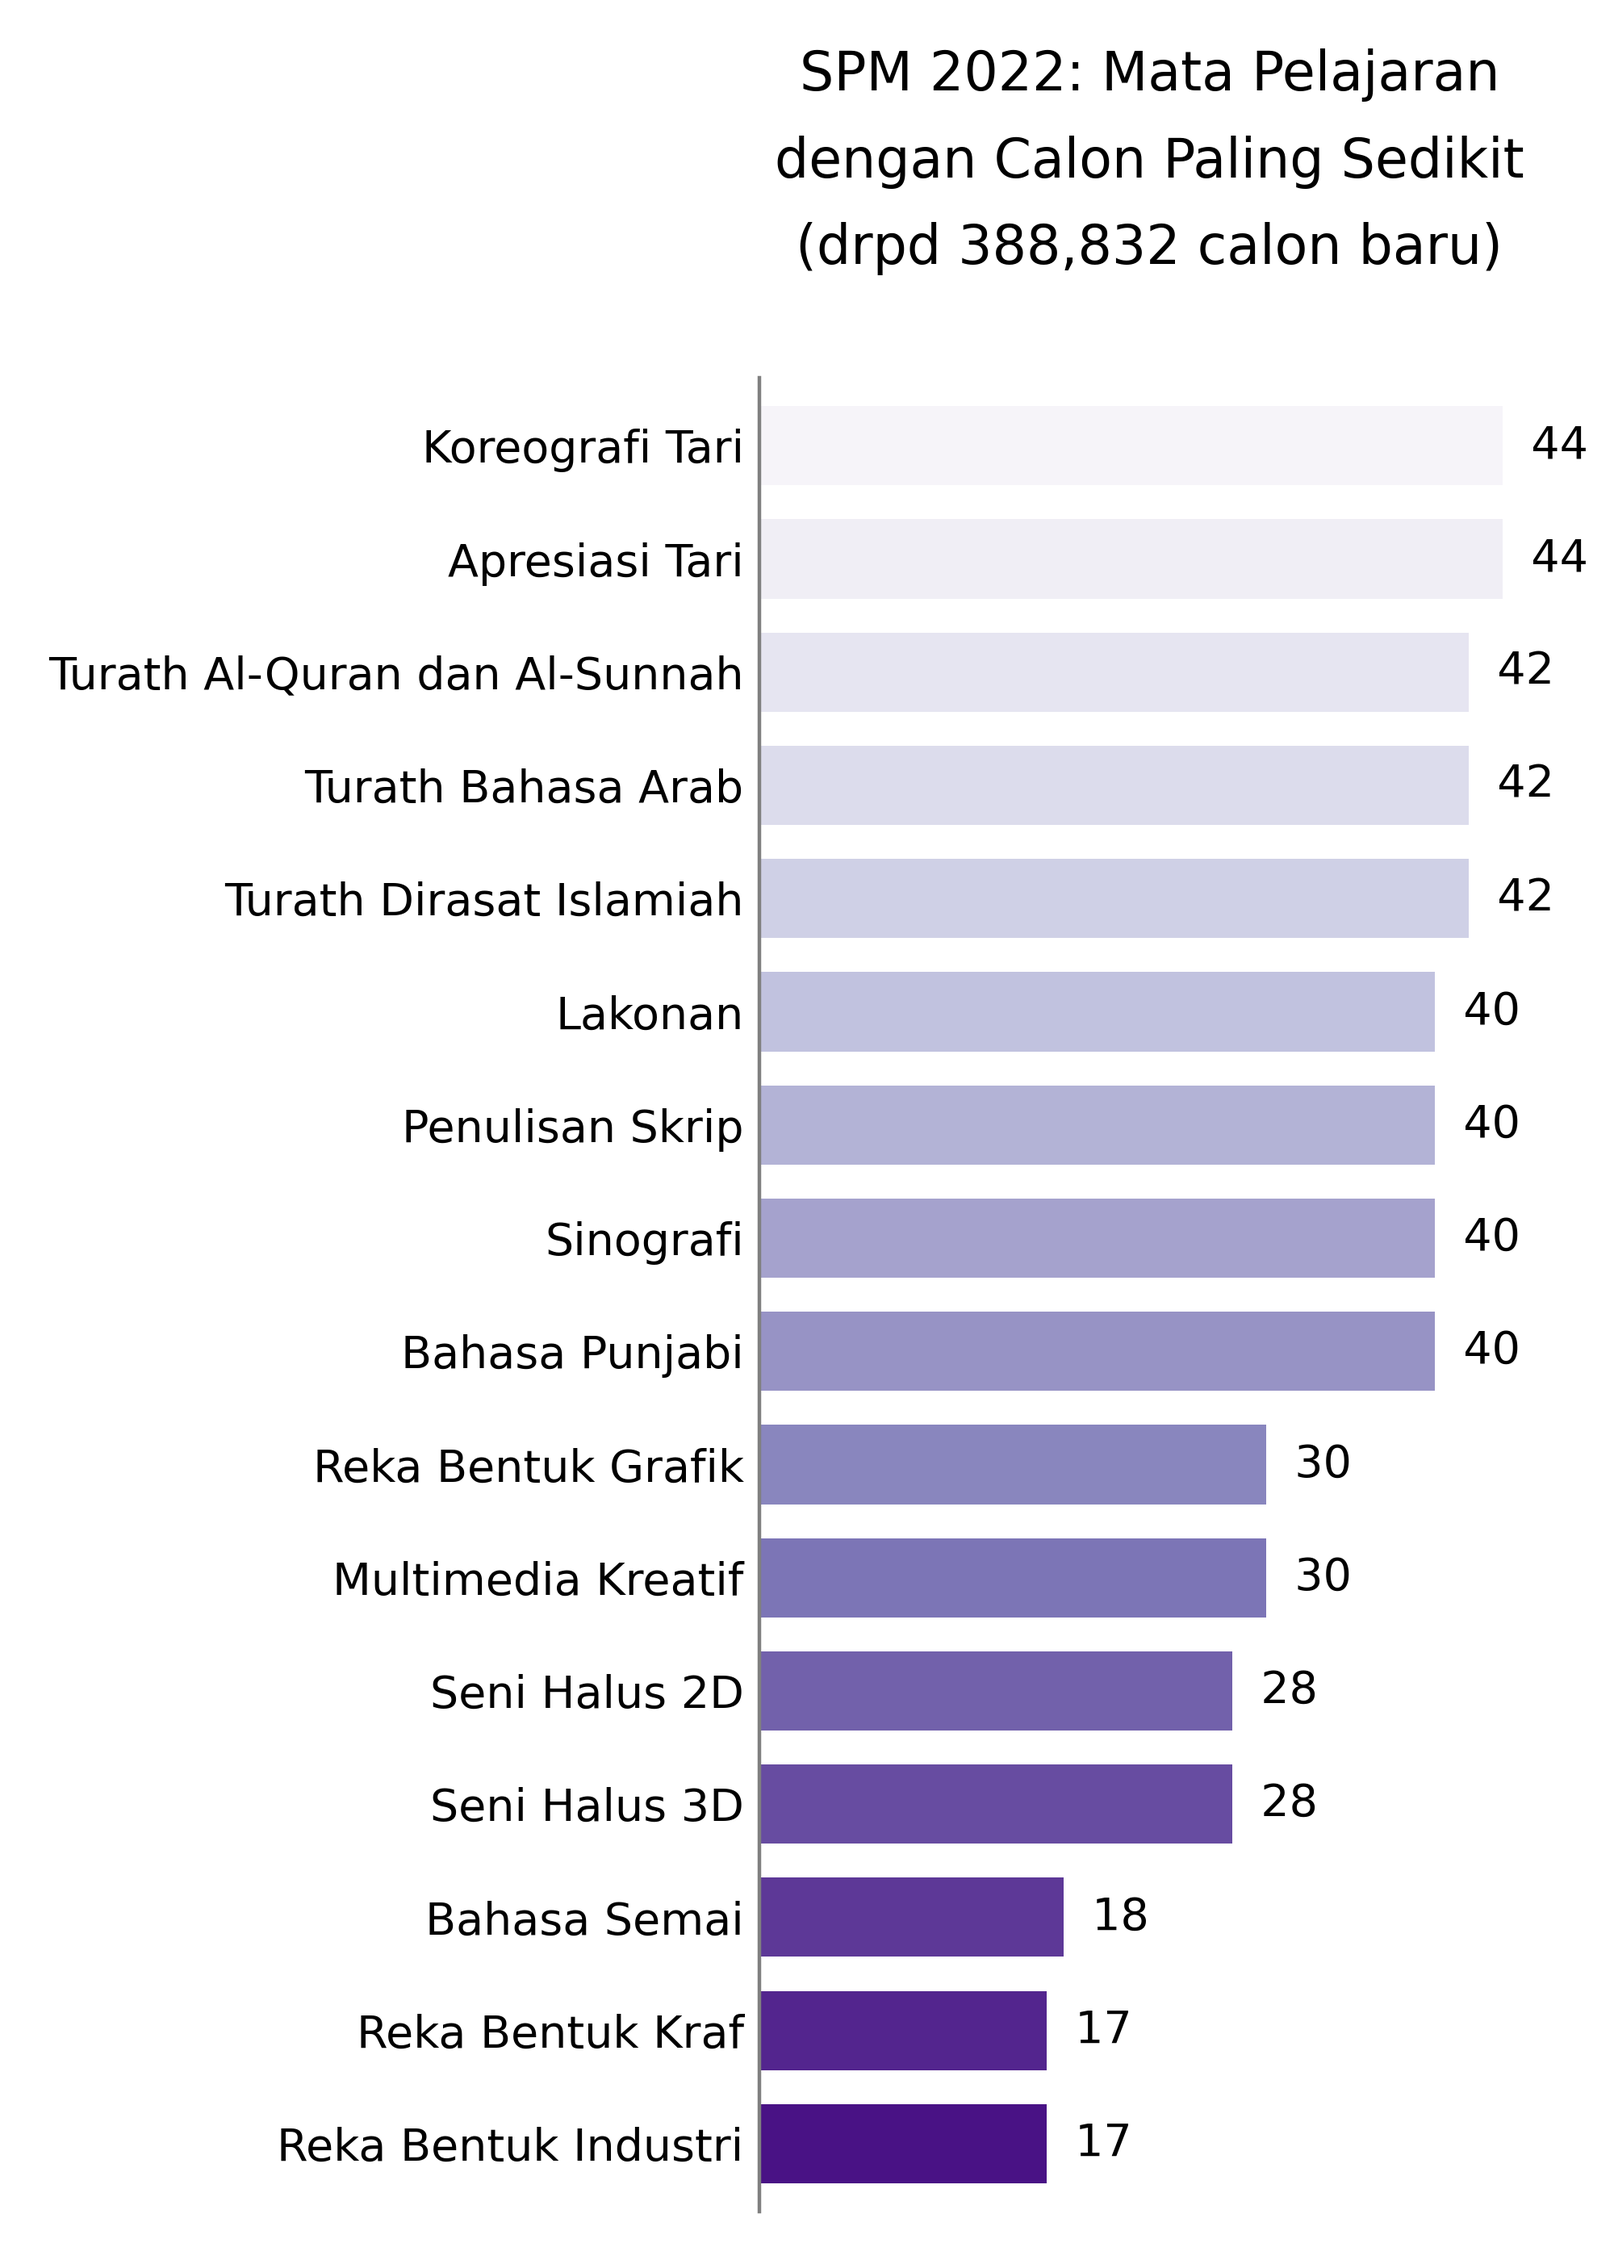
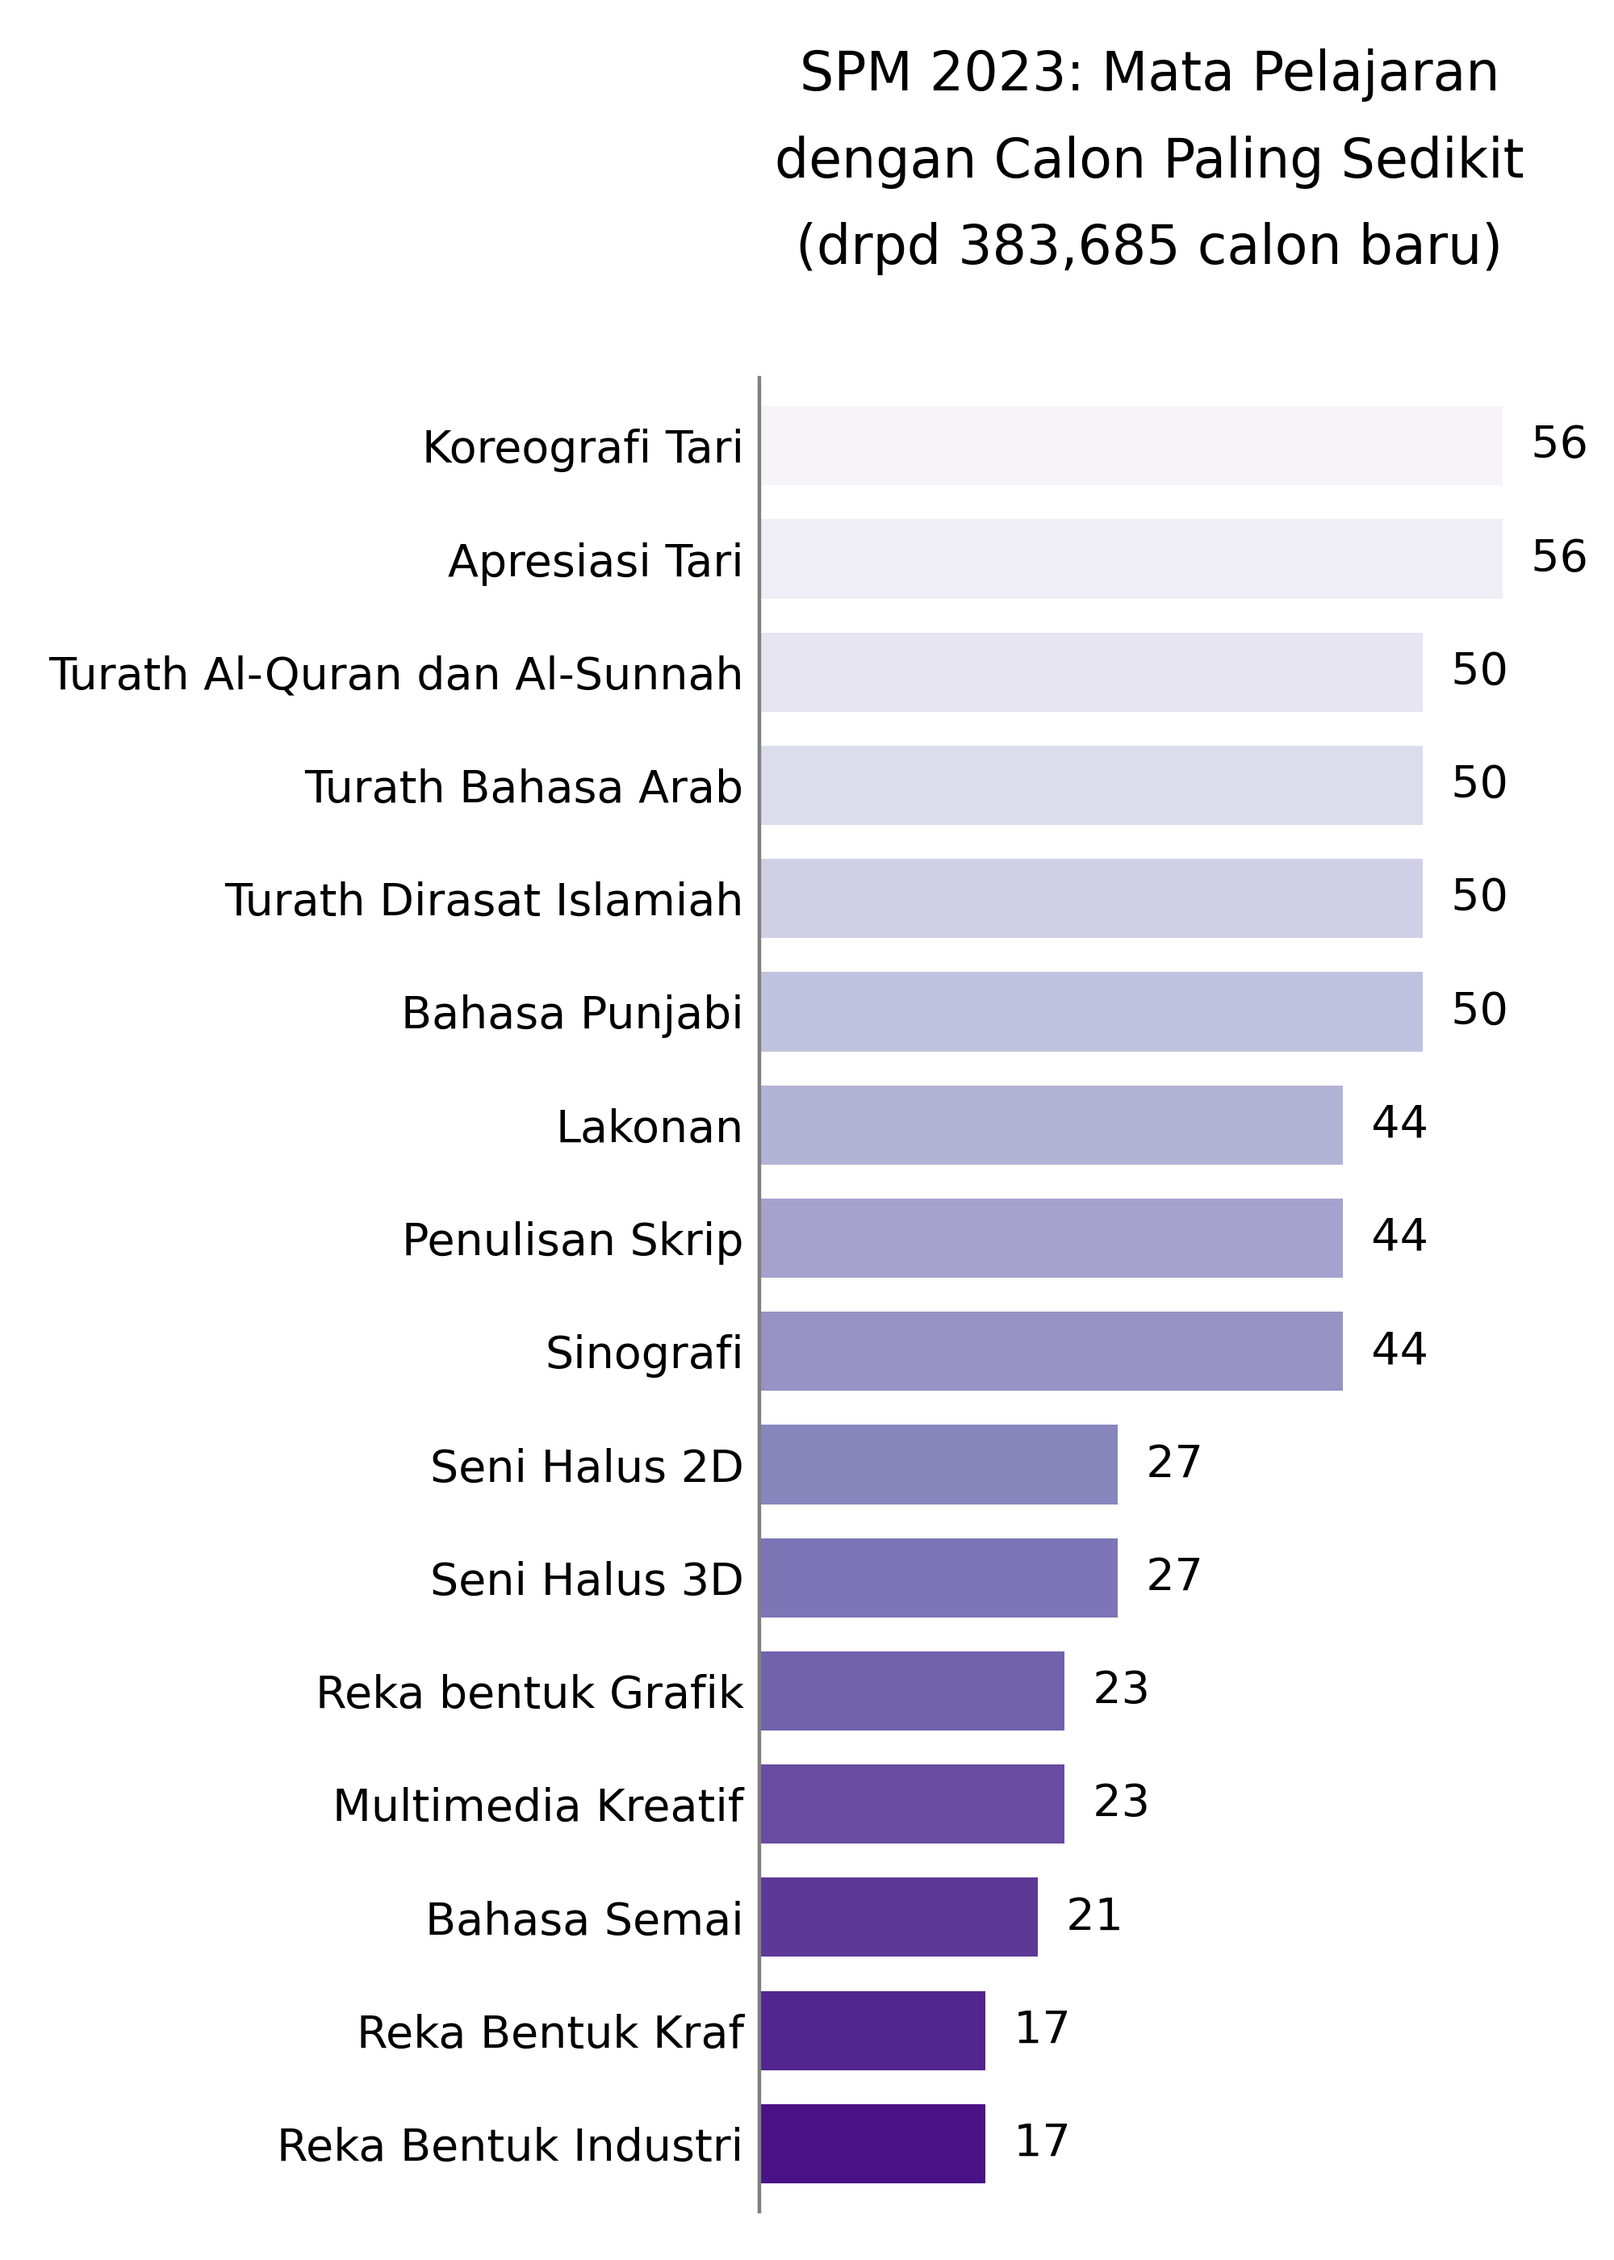
Update: SPM 2023 data

diff --git a/2024-01-30_spm/script.py b/2024-01-30_spm/script.py
@@ -20,7 +20,7 @@ def bar_calon_most():
     pf.plot(kind='barh', width=0.7, y=v, edgecolor='black', lw=0, color=col_pos, ax=ax)
 
     # plot-wide adjustments
-    ax.set_title(f'SPM 2022: Mata Pelajaran\ndengan Calon Paling Ramai\n(drpd {TOTAL_2022:,.0f} calon baru)\n',linespacing=1.8)
+    ax.set_title(f'SPM 2023: Mata Pelajaran\ndengan Calon Paling Ramai\n(drpd {TOTAL_2023:,.0f} calon baru)\n',linespacing=1.8)
     for b in ['top','right','bottom']: ax.spines[b].set_visible(False)
     ax.spines['left'].set_color('grey')
     ax.get_legend().remove()
@@ -35,7 +35,7 @@ def bar_calon_most():
     ax.xaxis.grid(False)
     ax.get_xaxis().set_visible(False)
     for c in ax.containers:
-        labels = [f'  {pf[v].iloc[i]:,.0f}  ({pf[v].iloc[i]/TOTAL_2022*100:,.1f}%)' for i in range(len(pf))]
+        labels = [f'  {pf[v].iloc[i]:,.0f}  ({pf[v].iloc[i]/TOTAL_2023*100:,.1f}%)' for i in range(len(pf))]
         ax.bar_label(c, labels=labels,fontsize=10)
 
     # ALT-text
@@ -63,7 +63,7 @@ def bar_calon_least():
     pf.plot(kind='barh', width=0.7, y=v, edgecolor='black', lw=0, color=col_pos, ax=ax)
 
     # plot-wide adjustments
-    ax.set_title(f'SPM 2022: Mata Pelajaran\ndengan Calon Paling Sedikit\n(drpd {TOTAL_2022:,.0f} calon baru)\n',linespacing=1.8)
+    ax.set_title(f'SPM 2023: Mata Pelajaran\ndengan Calon Paling Sedikit\n(drpd {TOTAL_2023:,.0f} calon baru)\n',linespacing=1.8)
     for b in ['top','right','bottom']: ax.spines[b].set_visible(False)
     ax.spines['left'].set_color('grey')
     ax.get_legend().remove()
@@ -106,7 +106,7 @@ def bar_results_gagal():
     pf.plot(kind='barh', width=0.7, y=v, edgecolor='black', lw=0, color=col_pos, ax=ax)
 
     # plot-wide adjustments
-    ax.set_title(f'SPM 2022: Mata Pelajaran\ndengan % Gagal Paling Tinggi\n',linespacing=1.8)
+    ax.set_title(f'SPM 2023: Mata Pelajaran\ndengan % Gagal Paling Tinggi\n',linespacing=1.8)
     for b in ['top','right','bottom']: ax.spines[b].set_visible(False)
     ax.spines['left'].set_color('grey')
     ax.get_legend().remove()
@@ -149,7 +149,7 @@ def bar_results_a():
     pf.plot(kind='barh', width=0.7, y=v, edgecolor='black', lw=0, color=col_pos, ax=ax)
 
     # plot-wide adjustments
-    ax.set_title(f'SPM 2022: Mata Pelajaran\ndengan % A+/A/A- Paling Tinggi\n(sekurangnya 10,000 calon)\n',linespacing=1.8)
+    ax.set_title(f'SPM 2023: Mata Pelajaran\ndengan % A+/A/A- Paling Tinggi\n(sekurangnya 10,000 calon)\n',linespacing=1.8)
     for b in ['top','right','bottom']: ax.spines[b].set_visible(False)
     ax.spines['left'].set_color('grey')
     ax.get_legend().remove()
@@ -193,7 +193,7 @@ def bar_results_a_bahasa():
 
     # plot-wide adjustments
     SPACE = '                  '
-    ax.set_title(f'{SPACE}SPM 2022: Mata Pelajaran Bahasa\n{SPACE}dengan % A+/A/A- Paling Tinggi\n',linespacing=1.8)
+    ax.set_title(f'{SPACE}SPM 2023: Mata Pelajaran Bahasa\n{SPACE}dengan % A+/A/A- Paling Tinggi\n',linespacing=1.8)
     for b in ['top','right','bottom']: ax.spines[b].set_visible(False)
     ax.spines['left'].set_color('grey')
     ax.get_legend().remove()
@@ -225,13 +225,13 @@ def bar_results_a_bahasa():
 CURDIR = os.getcwd()
 os.chdir(f'{CURDIR}/2024-01-30_spm/')
 
-TOTAL_2022 = 388832
+TOTAL_2023 = 383685
 
 df = pd.read_excel(f'src.xlsx')
-df = df[df.year == 2022].drop(['year','code'],axis=1).set_index('subject')
+df = df[df.year == 2023].drop(['year','code'],axis=1).set_index('subject')
 
 print('')
-print(f'{len(df)} subjects and {TOTAL_2022:,} calon in total')
+print(f'{len(df)} subjects and {TOTAL_2023:,} calon in total')
 print('')
 bar_calon_most()
 print('')
